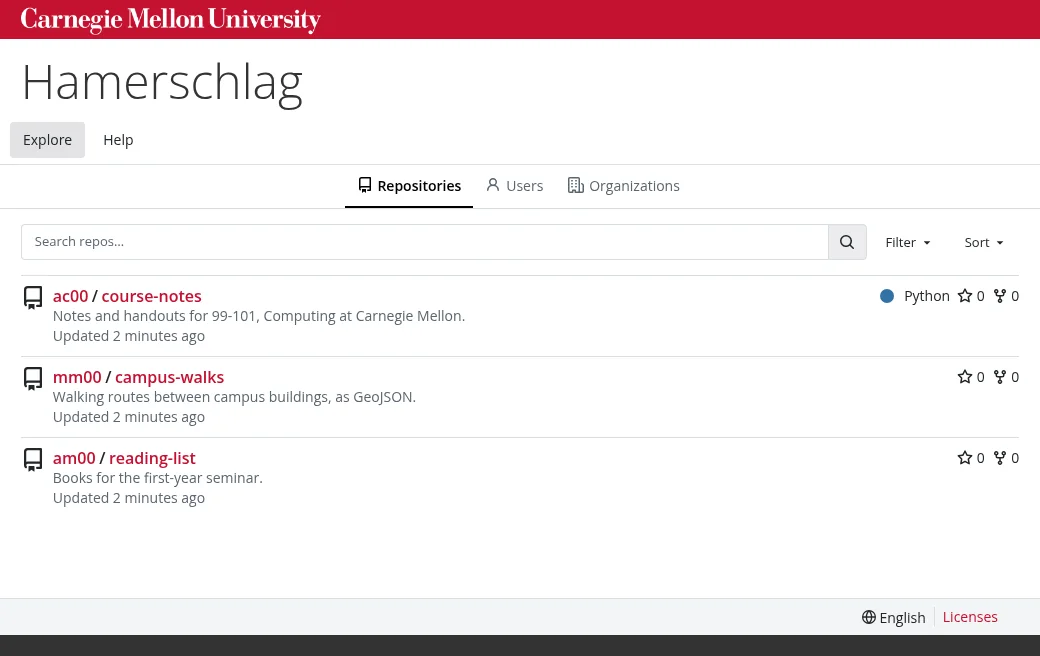
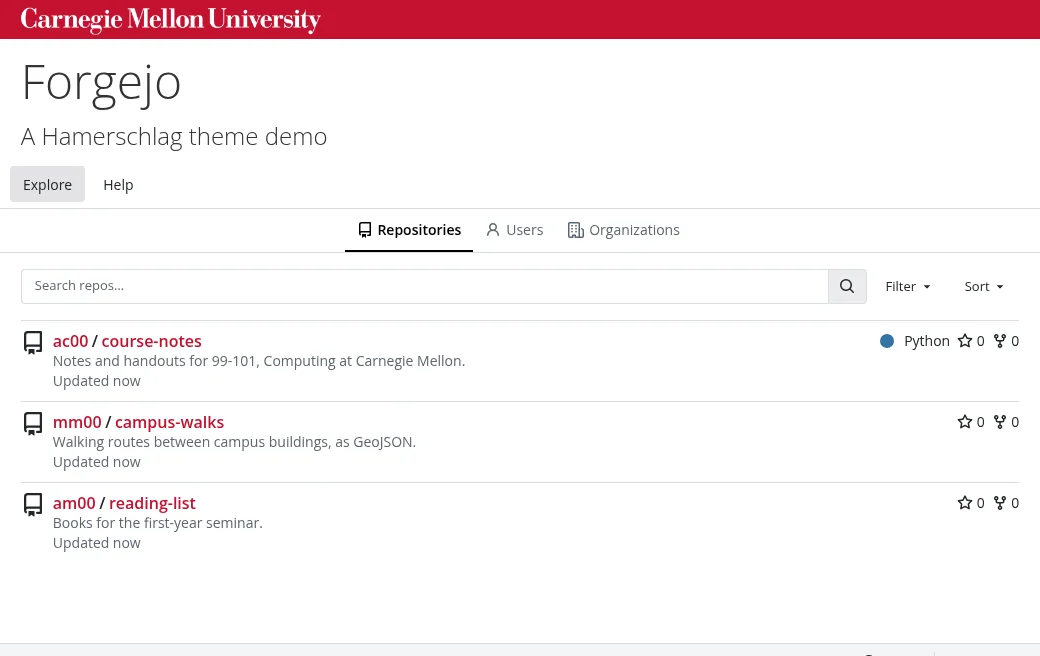
feat: the site keeps its own name; the theme never names itself
* The footer's address is its own template (hamerschlag/address.tmpl), starting with APP_NAME
* An optional line under the site's name (hamerschlag/site_line.tmpl), empty by default
* The demo goes by Forgejo, with "A Hamerschlag theme demo" under it
* README: Hamerschlag is a theme for Forgejo; install and the agent prompt keep the site's APP_NAME
* Fresh screenshots and preview image

diff --git a/README.md b/README.md
@@ -1,10 +1,13 @@
 # Hamerschlag
 
-A light theme for [Forgejo](https://forgejo.org/) that follows Carnegie
-Mellon's web template and the
-[Carnegie Mellon Web Kilt](https://webkilt.andrew.cmu.edu/0/). It adds the
-template's red roof with the wordmark, the site name and the dark footer, and
-turns Forgejo's own colors, corners, font and labels into the Kilt's.
+Hamerschlag is a theme for [Forgejo](https://forgejo.org/), the code hosting
+service. It gives a Forgejo site Carnegie Mellon's web template and the
+[Carnegie Mellon Web Kilt](https://webkilt.andrew.cmu.edu/0/): the template's
+red roof with the wordmark, your site's name and the dark footer, and the
+Kilt's colors, corners, font and labels for Forgejo's own pages.
+
+Your site keeps its own name, the one you set as `APP_NAME`. The theme never
+shows its own name on your site.
 
 See it on the demo: https://hamerschlag.andrew.cmu.edu/
 
@@ -19,10 +22,10 @@ Built for Forgejo 17.0.1 and the Web Kilt 0.6.9.
   warnings and notices.
 - **Corners and font:** square corners and Open Sans, as on the template.
 - **Header:** the template's red roof with the Carnegie Mellon wordmark, then
-  the site name (Forgejo's `APP_NAME`), linking home. Forgejo's menu bar sits
-  under it, without Forgejo's logo.
-- **Footer:** the template's dark footer with the site name, the university's
-  address, Legal Info and www.cmu.edu.
+  your site's name (`APP_NAME`), linking home, with an optional line under it.
+  Forgejo's menu bar sits under it, without Forgejo's logo.
+- **Footer:** the template's dark footer with your site's name and the
+  university's address (or your own), Legal Info and www.cmu.edu.
 - **Labels:** menus, tabs and main buttons in Title Case ("Pull Requests,"
   "Find a File," "New Issue").
 - **Edges:** Forgejo's side margins follow the template's, so the header,
@@ -44,11 +47,11 @@ You need a Forgejo admin's access to its custom folder (`CustomPath`, often
    [release](https://github.com/cmu-web/cmu-web-hamerschlag/releases) and copy
    its `custom/public`, `custom/templates` and `custom/options` into
    Forgejo's custom folder.
-2. In `app.ini`, add the theme, make it the default and hide Forgejo's
-   footer line:
+2. In `app.ini`, set your site's name, add the theme, make it the default
+   and hide Forgejo's footer line:
 
    ```ini
-   APP_NAME = CMU Code
+   APP_NAME = Your Site's Name
 
    [ui]
    THEMES = hamerschlag,forgejo-auto,forgejo-light,forgejo-dark
@@ -63,8 +66,16 @@ You need a Forgejo admin's access to its custom folder (`CustomPath`, often
 3. Restart Forgejo. Templates and labels load at startup; the CSS loads on
    each page.
 
-Change `APP_NAME` to your site's name. People who already picked a theme keep
-it; they can switch under **Settings**, **Appearance**.
+`APP_NAME` is your site's name in the header, the footer and every page
+title. People who already picked a theme keep it; they can switch under
+**Settings**, **Appearance**.
+
+To add a line under your site's name (who runs it, as a link or plain text,
+or a slogan), replace `custom/templates/custom/hamerschlag/site_line.tmpl`
+with an `<h2>`, such as `<h2><a href="https://www.cmu.edu/">Your
+Department</a></h2>`. To change the footer's address, replace
+`custom/templates/custom/hamerschlag/address.tmpl`; it starts with your
+site's name.
 
 ## What It Replaces in Forgejo
 
@@ -74,8 +85,10 @@ Check these against every Forgejo update.
   additions, which are empty by default:
   `custom/templates/custom/header.tmpl` (the font and icons),
   `custom/templates/custom/body_inner_pre.tmpl` (the header) and
-  `custom/templates/custom/footer.tmpl` (the footer). If your Forgejo
-  already uses any of them, merge by hand.
+  `custom/templates/custom/footer.tmpl` (the footer), plus the theme's own
+  `custom/templates/custom/hamerschlag/` (the line under your site's name and
+  the footer's address). If your Forgejo already uses any of Forgejo's three,
+  merge by hand.
 - **Forgejo's English labels,** `custom/options/locale/locale_en-US.ini`
   and `custom/options/locale_next/locale_en-US.json`. A custom locale file
   replaces Forgejo's whole file, so these are built from the Forgejo version
@@ -90,7 +103,7 @@ Copy this into an AI coding agent that can reach your Forgejo server, and it
 installs the theme:
 
 ```text
-Install the Hamerschlag theme on this Forgejo instance. Download the latest release of https://github.com/cmu-web/cmu-web-hamerschlag and copy its custom/public, custom/templates and custom/options folders into the instance's custom folder (CustomPath, often /var/lib/forgejo/custom, or /var/lib/gitea/custom in the container), and stop to ask before overwriting any file the instance already has there. In app.ini, add hamerschlag to [ui] THEMES and set DEFAULT_THEME = hamerschlag; under [other], set SHOW_FOOTER_POWERED_BY and SHOW_FOOTER_VERSION to false. Restart Forgejo. Then compare the instance's Forgejo version with FORGEJO in the release's scripts/build.mjs: if they differ, check that custom/header.tmpl, custom/body_inner_pre.tmpl and custom/footer.tmpl are still empty extension points in that version, and rebuild the labels with node scripts/build.mjs after setting FORGEJO to the instance's version, or remove custom/options and keep Forgejo's own labels.
+Install the Hamerschlag theme on this Forgejo instance. Download the latest release of https://github.com/cmu-web/cmu-web-hamerschlag and copy its custom/public, custom/templates and custom/options folders into the instance's custom folder (CustomPath, often /var/lib/forgejo/custom, or /var/lib/gitea/custom in the container), and stop to ask before overwriting any file the instance already has there. In app.ini, keep the site's own APP_NAME (the theme shows it as the site's name and never names itself), add hamerschlag to [ui] THEMES and set DEFAULT_THEME = hamerschlag; under [other], set SHOW_FOOTER_POWERED_BY and SHOW_FOOTER_VERSION to false. If the site wants a line under its name or its own footer address, edit custom/templates/custom/hamerschlag/site_line.tmpl or address.tmpl. Restart Forgejo. Then compare the instance's Forgejo version with FORGEJO in the release's scripts/build.mjs: if they differ, check that custom/header.tmpl, custom/body_inner_pre.tmpl and custom/footer.tmpl are still empty extension points in that version, and rebuild the labels with node scripts/build.mjs after setting FORGEJO to the instance's version, or remove custom/options and keep Forgejo's own labels.
 ```
 
 ## Update the Kilt or Forgejo
@@ -111,7 +124,8 @@ Edit `src/`, never `custom/`, then rebuild. Commit both, so an admin can copy
 ## Demo
 
 https://hamerschlag.andrew.cmu.edu/ runs Forgejo with the theme and made-up
-people and projects. It's thrown away and rebuilt on every deploy from this
+people and projects. Like any site running the theme, it goes by its own name,
+Forgejo, with "A Hamerschlag theme demo" under it (`demo/templates`). It's thrown away and rebuilt on every deploy from this
 repository: `demo/app.ini` holds its settings and `demo/seed.mjs` its people
 (Andrew Carnegie, Margaret Morrison and Andrew Mellon), repositories, issues,
 a pull request and a release.
